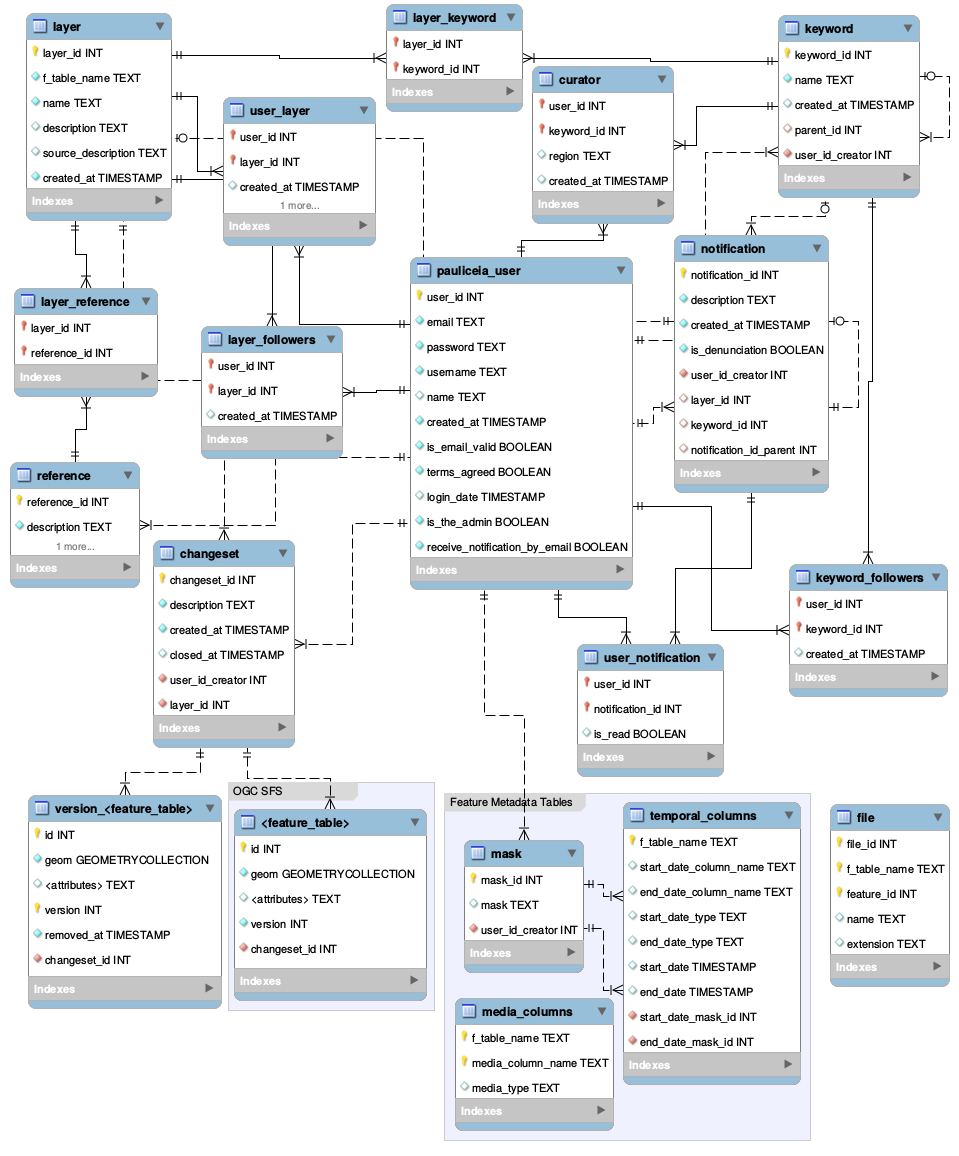
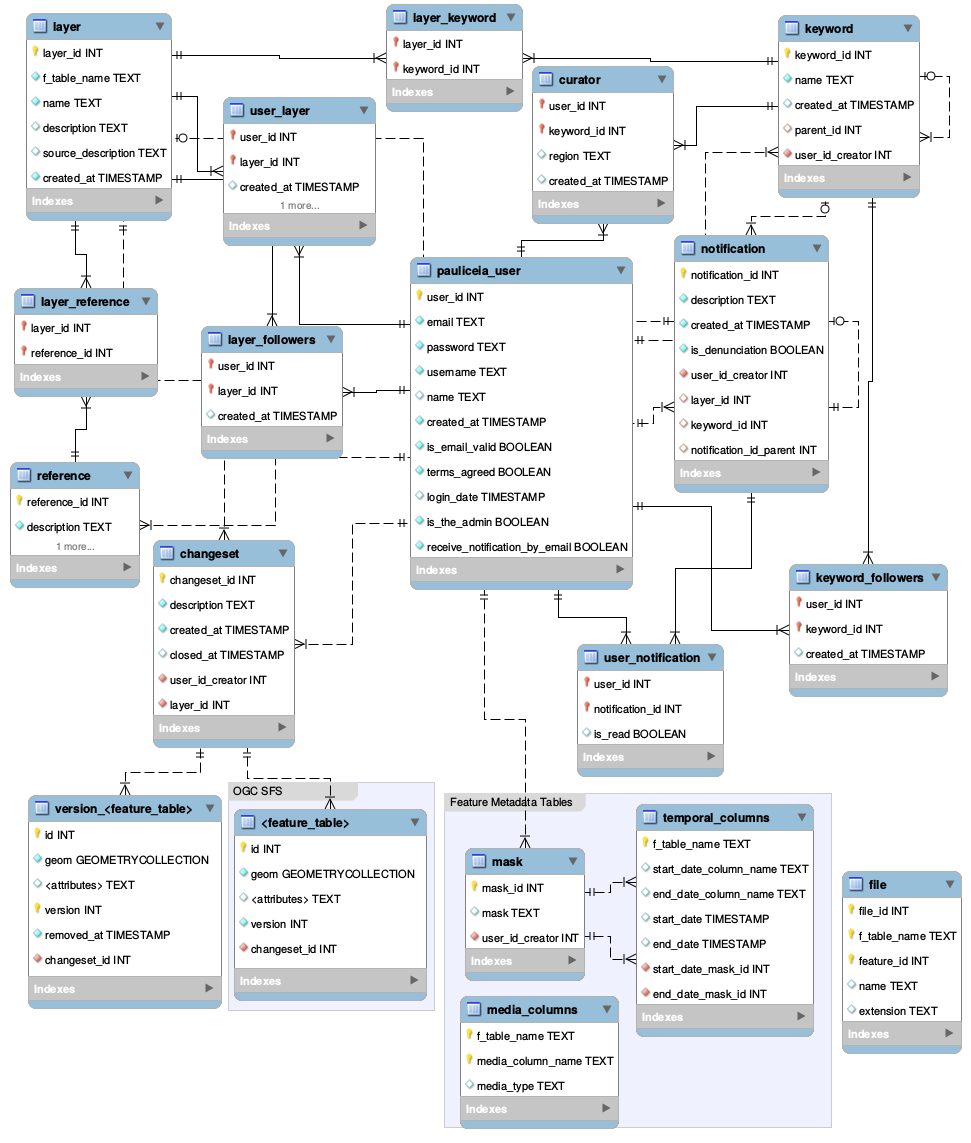
Removed the type from temporal columns

Changed region(s): [[0.0, 0.0, 0.9979, 1.0], [0.635, 0.3675, 0.6653, 0.3981]]

diff --git a/tests/test_api_temporal_columns.py b/tests/test_api_temporal_columns.py
@@ -24,51 +24,48 @@ class TestAPITemporalColumns(TestCase):
                     'type': 'TemporalColumns',
                     'properties': {
                         'end_date_column_name': 'end_date', 'start_date_mask_id': 1001,
-                        'end_date_type': 'timestamp', 'start_date': '1869-01-01', 'end_date_mask_id': 1001,
-                        'f_table_name': 'layer_1001', 'start_date_column_name': 'start_date',
-                        'start_date_type': 'timestamp', 'end_date': '1975-12-31'
-                    }
-                },
-                {
-                    'type': 'TemporalColumns',
-                    'properties': {
-                        'end_date_column_name': 'end_date', 'start_date_mask_id': 1001, 'end_date_type': 'text',
-                        'start_date': '1886-01-01', 'end_date_mask_id': 1001, 'f_table_name': 'layer_1002',
-                        'start_date_column_name': 'start_date', 'start_date_type': 'timestamp',
-                        'end_date': '1890-12-31'
+                        'start_date': '1869-01-01', 'end_date_mask_id': 1001, 'end_date': '1975-12-31',
+                        'f_table_name': 'layer_1001', 'start_date_column_name': 'start_date'
                     }
                 },
                 {
                     'type': 'TemporalColumns',
                     'properties': {
                         'end_date_column_name': 'end_date', 'start_date_mask_id': 1001,
-                        'end_date_type': 'timestamp', 'start_date': '1920-01-01', 'end_date_mask_id': 1001,
+                        'start_date': '1886-01-01', 'end_date_mask_id': 1001, 'f_table_name': 'layer_1002',
+                        'start_date_column_name': 'start_date', 'end_date': '1890-12-31'
+                    }
+                },
+                {
+                    'type': 'TemporalColumns',
+                    'properties': {
+                        'end_date_column_name': 'end_date', 'start_date_mask_id': 1001,
+                        'start_date': '1920-01-01', 'end_date_mask_id': 1001, 'end_date': '1930-12-31',
                         'f_table_name': 'layer_1003', 'start_date_column_name': 'start_date',
-                        'start_date_type': 'timestamp', 'end_date': '1930-12-31'
                     }
                 },
                 {
                     'type': 'TemporalColumns',
                     'properties': {
-                        'end_date_column_name': 'end_date', 'start_date_mask_id': 1002, 'end_date_type': 'text',
+                        'end_date_column_name': 'end_date', 'start_date_mask_id': 1002,
                         'start_date': '1920-01-01', 'end_date_mask_id': 1002, 'f_table_name': 'layer_1004',
-                        'start_date_column_name': 'start_date', 'start_date_type': 'text', 'end_date': '1920-12-31'
+                        'start_date_column_name': 'start_date', 'end_date': '1920-12-31'
                     }
                 },
                 {
                     'type': 'TemporalColumns',
                     'properties': {
-                        'end_date_column_name': 'end_date', 'start_date_mask_id': 1002, 'end_date_type': 'text',
+                        'end_date_column_name': 'end_date', 'start_date_mask_id': 1002,
                         'start_date': '1920-01-01', 'end_date_mask_id': 1002, 'f_table_name': 'layer_1005',
-                        'start_date_column_name': 'start_date', 'start_date_type': 'text', 'end_date': '1940-12-31'
+                        'start_date_column_name': 'start_date', 'end_date': '1940-12-31'
                     }
                 },
                 {
                     'type': 'TemporalColumns',
                     'properties': {
-                        'end_date_column_name': 'end_date', 'start_date_mask_id': 1003, 'end_date_type': 'int',
+                        'end_date_column_name': 'end_date', 'start_date_mask_id': 1003,
                         'start_date': '1900-01-01', 'end_date_mask_id': 1003, 'f_table_name': 'layer_1006',
-                        'start_date_column_name': 'start_date', 'start_date_type': 'int', 'end_date': '1930-12-31'
+                        'start_date_column_name': 'start_date', 'end_date': '1930-12-31'
                     }
                 }
             ]
@@ -84,9 +81,8 @@ class TestAPITemporalColumns(TestCase):
                     'type': 'TemporalColumns',
                     'properties': {
                         'end_date_column_name': 'end_date', 'start_date_mask_id': 1001,
-                        'end_date_type': 'timestamp', 'start_date': '1920-01-01', 'end_date_mask_id': 1001,
-                        'f_table_name': 'layer_1003', 'start_date_column_name': 'start_date',
-                        'start_date_type': 'timestamp', 'end_date': '1930-12-31'
+                        'start_date': '1920-01-01', 'end_date_mask_id': 1001, 'end_date': '1930-12-31',
+                        'f_table_name': 'layer_1003', 'start_date_column_name': 'start_date'
                     }
                 }
             ]
@@ -101,9 +97,9 @@ class TestAPITemporalColumns(TestCase):
                 {
                     'type': 'TemporalColumns',
                     'properties': {
-                        'end_date_column_name': 'end_date', 'start_date_mask_id': 1002, 'end_date_type': 'text',
+                        'end_date_column_name': 'end_date', 'start_date_mask_id': 1002,
                         'start_date': '1920-01-01', 'end_date_mask_id': 1002, 'f_table_name': 'layer_1004',
-                        'start_date_column_name': 'start_date', 'start_date_type': 'text', 'end_date': '1920-12-31'
+                        'start_date_column_name': 'start_date', 'end_date': '1920-12-31'
                     }
                 }
             ]
@@ -119,25 +115,24 @@ class TestAPITemporalColumns(TestCase):
                     'type': 'TemporalColumns',
                     'properties': {
                         'end_date_column_name': 'end_date', 'start_date_mask_id': 1001,
-                        'end_date_type': 'timestamp', 'start_date': '1920-01-01', 'end_date_mask_id': 1001,
+                        'start_date': '1920-01-01', 'end_date_mask_id': 1001, 'end_date': '1930-12-31',
                         'f_table_name': 'layer_1003', 'start_date_column_name': 'start_date',
-                        'start_date_type': 'timestamp', 'end_date': '1930-12-31'
                     }
                 },
                 {
                     'type': 'TemporalColumns',
                     'properties': {
-                        'end_date_column_name': 'end_date', 'start_date_mask_id': 1002, 'end_date_type': 'text',
+                        'end_date_column_name': 'end_date', 'start_date_mask_id': 1002,
                         'start_date': '1920-01-01', 'end_date_mask_id': 1002, 'f_table_name': 'layer_1004',
-                        'start_date_column_name': 'start_date', 'start_date_type': 'text', 'end_date': '1920-12-31'
+                        'start_date_column_name': 'start_date', 'end_date': '1920-12-31'
                     }
                 },
                 {
                     'type': 'TemporalColumns',
                     'properties': {
-                        'end_date_column_name': 'end_date', 'start_date_mask_id': 1002, 'end_date_type': 'text',
+                        'end_date_column_name': 'end_date', 'start_date_mask_id': 1002,
                         'start_date': '1920-01-01', 'end_date_mask_id': 1002, 'f_table_name': 'layer_1005',
-                        'start_date_column_name': 'start_date', 'start_date_type': 'text', 'end_date': '1940-12-31'
+                        'start_date_column_name': 'start_date', 'end_date': '1940-12-31'
                     }
                 }
             ]
@@ -152,18 +147,17 @@ class TestAPITemporalColumns(TestCase):
                 {
                     'type': 'TemporalColumns',
                     'properties': {
-                        'end_date_column_name': 'end_date', 'start_date_mask_id': 1001, 'end_date_type': 'text',
+                        'end_date_column_name': 'end_date', 'start_date_mask_id': 1001,
                         'start_date': '1886-01-01', 'end_date_mask_id': 1001, 'f_table_name': 'layer_1002',
-                        'start_date_column_name': 'start_date', 'start_date_type': 'timestamp',
-                        'end_date': '1890-12-31'
+                        'start_date_column_name': 'start_date', 'end_date': '1890-12-31'
                     }
                 },
                 {
                     'type': 'TemporalColumns',
                     'properties': {
-                        'end_date_column_name': 'end_date', 'start_date_mask_id': 1002, 'end_date_type': 'text',
+                        'end_date_column_name': 'end_date', 'start_date_mask_id': 1002,
                         'start_date': '1920-01-01', 'end_date_mask_id': 1002, 'f_table_name': 'layer_1004',
-                        'start_date_column_name': 'start_date', 'start_date_type': 'text', 'end_date': '1920-12-31'
+                        'start_date_column_name': 'start_date', 'end_date': '1920-12-31'
                     }
                 }
             ]
@@ -178,9 +172,9 @@ class TestAPITemporalColumns(TestCase):
                 {
                     'type': 'TemporalColumns',
                     'properties': {
-                        'end_date_column_name': 'end_date', 'start_date_mask_id': 1003, 'end_date_type': 'int',
+                        'end_date_column_name': 'end_date', 'start_date_mask_id': 1003,
                         'start_date': '1900-01-01', 'end_date_mask_id': 1003, 'f_table_name': 'layer_1006',
-                        'start_date_column_name': 'start_date', 'start_date_type': 'int', 'end_date': '1930-12-31'
+                        'start_date_column_name': 'start_date', 'end_date': '1930-12-31'
                     }
                 }
             ]
@@ -195,9 +189,9 @@ class TestAPITemporalColumns(TestCase):
                 {
                     'type': 'TemporalColumns',
                     'properties': {
-                        'end_date_column_name': 'end_date', 'start_date_mask_id': 1002, 'end_date_type': 'text',
+                        'end_date_column_name': 'end_date', 'start_date_mask_id': 1002,
                         'start_date': '1920-01-01', 'end_date_mask_id': 1002, 'f_table_name': 'layer_1004',
-                        'start_date_column_name': 'start_date', 'start_date_type': 'text', 'end_date': '1920-12-31'
+                        'start_date_column_name': 'start_date', 'end_date': '1920-12-31'
                     }
                 }
             ]
@@ -239,7 +233,6 @@ class TestAPITemporalColumns(TestCase):
         temporal_columns = {
             'properties': {'f_table_name': f_table_name, 'start_date': '1900-01-01', 'end_date': '1920-12-31',
                            'end_date_column_name': 'end_date', 'start_date_column_name': 'start_date',
-                           'start_date_type': 'timestamp', 'end_date_type': 'timestamp',
                            'start_date_mask_id': 1001, 'end_date_mask_id': 1001},
             'type': 'TemporalColumns'
         }
@@ -309,7 +302,6 @@ class TestAPITemporalColumns(TestCase):
         temporal_columns = {
             'properties': {'f_table_name': f_table_name, 'start_date': '1900-01-01', 'end_date': '1920-12-31',
                            'end_date_column_name': 'end_date', 'start_date_column_name': 'start_date',
-                           'start_date_type': 'timestamp', 'end_date_type': 'timestamp',
                            'start_date_mask_id': 1001, 'end_date_mask_id': 1001},
             'type': 'TemporalColumns'
         }
@@ -379,7 +371,6 @@ class TestAPITemporalColumnsErrors(TestCase):
         resource = {
             'properties': {'f_table_name': 'layer_1003', 'start_date': '1900-01-01', 'end_date': '1920-12-31',
                            'end_date_column_name': 'end_date', 'start_date_column_name': 'start_date',
-                           'start_date_type': 'timestamp', 'end_date_type': 'timestamp',
                            'start_date_mask_id': 1001, 'end_date_mask_id': 1001},
             'type': 'TemporalColumns'
         }
@@ -396,7 +387,6 @@ class TestAPITemporalColumnsErrors(TestCase):
         resource = {
             'properties': {'start_date': '1900-01-01', 'end_date': '1920-12-31',
                            'end_date_column_name': 'end_date', 'start_date_column_name': 'start_date',
-                           'start_date_type': 'timestamp', 'end_date_type': 'timestamp',
                            'start_date_mask_id': 1001, 'end_date_mask_id': 1001},
             'type': 'TemporalColumns'
         }
@@ -406,7 +396,6 @@ class TestAPITemporalColumnsErrors(TestCase):
         resource = {
             'properties': {'f_table_name': 'layer_1003', 'end_date': '1920-12-31',
                            'end_date_column_name': 'end_date', 'start_date_column_name': 'start_date',
-                           'start_date_type': 'timestamp', 'end_date_type': 'timestamp',
                            'start_date_mask_id': 1001, 'end_date_mask_id': 1001},
             'type': 'TemporalColumns'
         }
@@ -416,7 +405,6 @@ class TestAPITemporalColumnsErrors(TestCase):
         resource = {
             'properties': {'f_table_name': 'layer_1003', 'start_date': '1900-01-01',
                            'end_date_column_name': 'end_date', 'start_date_column_name': 'start_date',
-                           'start_date_type': 'timestamp', 'end_date_type': 'timestamp',
                            'start_date_mask_id': 1001, 'end_date_mask_id': 1001},
             'type': 'TemporalColumns'
         }
@@ -426,7 +414,6 @@ class TestAPITemporalColumnsErrors(TestCase):
         resource = {
             'properties': {'f_table_name': 'layer_1003', 'start_date': '1900-01-01', 'end_date': '1920-12-31',
                            'start_date_column_name': 'start_date',
-                           'start_date_type': 'timestamp', 'end_date_type': 'timestamp',
                            'start_date_mask_id': 1001, 'end_date_mask_id': 1001},
             'type': 'TemporalColumns'
         }
@@ -441,7 +428,6 @@ class TestAPITemporalColumnsErrors(TestCase):
         resource = {
             'properties': {'f_table_name': 'layer_1003', 'start_date': '1900-01-01', 'end_date': '1920-12-31',
                            'end_date_column_name': 'end_date',
-                           'start_date_type': 'timestamp', 'end_date_type': 'timestamp',
                            'start_date_mask_id': 1001, 'end_date_mask_id': 1001},
             'type': 'TemporalColumns'
         }
@@ -454,7 +440,6 @@ class TestAPITemporalColumnsErrors(TestCase):
         resource = {
             'properties': {'f_table_name': 'layer_1002', 'start_date': '1900-01-01', 'end_date': '1920-12-31',
                            'end_date_column_name': 'end_date', 'start_date_column_name': 'start_date',
-                           'start_date_type': 'timestamp', 'end_date_type': 'timestamp',
                            'start_date_mask_id': 1001, 'end_date_mask_id': 1001},
             'type': 'TemporalColumns'
         }
@@ -468,7 +453,6 @@ class TestAPITemporalColumnsErrors(TestCase):
         resource = {
             'properties': {'f_table_name': 'layer_1002', 'start_date': '1900-01-01', 'end_date': '1920-12-31',
                            'end_date_column_name': 'end_date', 'start_date_column_name': 'start_date',
-                           'start_date_type': 'timestamp', 'end_date_type': 'timestamp',
                            'start_date_mask_id': 1001, 'end_date_mask_id': 1001},
             'type': 'TemporalColumns'
         }
@@ -485,7 +469,6 @@ class TestAPITemporalColumnsErrors(TestCase):
         resource = {
             'properties': {'f_table_name': 'address', 'start_date': '1900-01-01', 'end_date': '1920-12-31',
                            'end_date_column_name': 'end_date', 'start_date_column_name': 'start_date',
-                           'start_date_type': 'timestamp', 'end_date_type': 'timestamp',
                            'start_date_mask_id': 1001, 'end_date_mask_id': 1001},
             'type': 'TemporalColumns'
         }
@@ -504,7 +487,6 @@ class TestAPITemporalColumnsErrors(TestCase):
         resource = {
             'properties': {'start_date': '1900-01-01', 'end_date': '1920-12-31',
                            'end_date_column_name': 'end_date', 'start_date_column_name': 'start_date',
-                           'start_date_type': 'timestamp', 'end_date_type': 'timestamp',
                            'start_date_mask_id': 1001, 'end_date_mask_id': 1001},
             'type': 'TemporalColumns'
         }
@@ -514,7 +496,6 @@ class TestAPITemporalColumnsErrors(TestCase):
         resource = {
             'properties': {'f_table_name': 'layer_1003', 'end_date': '1920-12-31',
                            'end_date_column_name': 'end_date', 'start_date_column_name': 'start_date',
-                           'start_date_type': 'timestamp', 'end_date_type': 'timestamp',
                            'start_date_mask_id': 1001, 'end_date_mask_id': 1001},
             'type': 'TemporalColumns'
         }
@@ -524,7 +505,6 @@ class TestAPITemporalColumnsErrors(TestCase):
         resource = {
             'properties': {'f_table_name': 'layer_1003', 'start_date': '1900-01-01',
                            'end_date_column_name': 'end_date', 'start_date_column_name': 'start_date',
-                           'start_date_type': 'timestamp', 'end_date_type': 'timestamp',
                            'start_date_mask_id': 1001, 'end_date_mask_id': 1001},
             'type': 'TemporalColumns'
         }
@@ -534,7 +514,6 @@ class TestAPITemporalColumnsErrors(TestCase):
         resource = {
             'properties': {'f_table_name': 'layer_1003', 'start_date': '1900-01-01', 'end_date': '1920-12-31',
                            'start_date_column_name': 'start_date',
-                           'start_date_type': 'timestamp', 'end_date_type': 'timestamp',
                            'start_date_mask_id': 1001, 'end_date_mask_id': 1001},
             'type': 'TemporalColumns'
         }
@@ -549,7 +528,6 @@ class TestAPITemporalColumnsErrors(TestCase):
         resource = {
             'properties': {'f_table_name': 'layer_1003', 'start_date': '1900-01-01', 'end_date': '1920-12-31',
                            'end_date_column_name': 'end_date',
-                           'start_date_type': 'timestamp', 'end_date_type': 'timestamp',
                            'start_date_mask_id': 1001, 'end_date_mask_id': 1001},
             'type': 'TemporalColumns'
         }
@@ -562,7 +540,6 @@ class TestAPITemporalColumnsErrors(TestCase):
         resource = {
             'properties': {'f_table_name': 'layer_1002', 'start_date': '1900-01-01', 'end_date': '1920-12-31',
                            'end_date_column_name': 'end_date', 'start_date_column_name': 'start_date',
-                           'start_date_type': 'timestamp', 'end_date_type': 'timestamp',
                            'start_date_mask_id': 1001, 'end_date_mask_id': 1001},
             'type': 'TemporalColumns'
         }
@@ -576,7 +553,6 @@ class TestAPITemporalColumnsErrors(TestCase):
         resource = {
             'properties': {'f_table_name': 'layer_1002', 'start_date': '1900-01-01', 'end_date': '1920-12-31',
                            'end_date_column_name': 'end_date', 'start_date_column_name': 'start_date',
-                           'start_date_type': 'timestamp', 'end_date_type': 'timestamp',
                            'start_date_mask_id': 1001, 'end_date_mask_id': 1001},
             'type': 'TemporalColumns'
         }
@@ -593,7 +569,6 @@ class TestAPITemporalColumnsErrors(TestCase):
         resource = {
             'properties': {'f_table_name': 'address', 'start_date': '1900-01-01', 'end_date': '1920-12-31',
                            'end_date_column_name': 'end_date', 'start_date_column_name': 'start_date',
-                           'start_date_type': 'timestamp', 'end_date_type': 'timestamp',
                            'start_date_mask_id': 1001, 'end_date_mask_id': 1001},
             'type': 'TemporalColumns'
         }

diff --git a/models/db_connection.py b/models/db_connection.py
@@ -829,7 +829,7 @@ class PGSQLConnection:
         #     raise HTTPError(400, "Invalid parameter.")
 
         subquery = get_subquery_temporal_columns_table(f_table_name=f_table_name, start_date=start_date, end_date=end_date,
-                                                   start_date_gte=start_date_gte, end_date_lte=end_date_lte)
+                                                       start_date_gte=start_date_gte, end_date_lte=end_date_lte)
 
         # CREATE THE QUERY AND EXECUTE IT
         query_text = """
@@ -840,9 +840,7 @@ class PGSQLConnection:
                     'properties', json_build_object(
                         'f_table_name',            f_table_name,
                         'start_date_column_name',  start_date_column_name,
-                        'end_date_column_name',    end_date_column_name,                        
-                        'start_date_type',         start_date_type,
-                        'end_date_type',           end_date_type,                        
+                        'end_date_column_name',    end_date_column_name,                      
                         'start_date',              to_char(start_date, 'YYYY-MM-DD'),
                         'end_date',                to_char(end_date, 'YYYY-MM-DD'),                        
                         'start_date_mask_id',      start_date_mask_id,
@@ -879,10 +877,10 @@ class PGSQLConnection:
 
         query_text = """
             INSERT INTO temporal_columns (f_table_name, start_date_column_name, end_date_column_name, start_date, end_date,
-                                          start_date_type, end_date_type, start_date_mask_id, end_date_mask_id)
-            VALUES ('{0}', '{1}', '{2}', '{3}', '{4}', '{5}', '{6}', {7}, {8});
+                                          start_date_mask_id, end_date_mask_id)
+            VALUES ('{0}', '{1}', '{2}', '{3}', '{4}', {5}, {6});
         """.format(p["f_table_name"], p["start_date_column_name"], p["end_date_column_name"], p["start_date"], p["end_date"],
-                   p["start_date_type"], p["end_date_type"], p["start_date_mask_id"], p["end_date_mask_id"])
+                   p["start_date_mask_id"], p["end_date_mask_id"])
 
         # do the query in database
         self.__PGSQL_CURSOR__.execute(query_text)
@@ -892,10 +890,10 @@ class PGSQLConnection:
 
         query_text = """
             UPDATE temporal_columns SET start_date_column_name='{1}', end_date_column_name='{2}', start_date='{3}', end_date='{4}',
-                                        start_date_type='{5}', end_date_type='{6}', start_date_mask_id={7}, end_date_mask_id={8}                                    
+                                        start_date_mask_id={5}, end_date_mask_id={6}                                    
             WHERE f_table_name = '{0}';
         """.format(p["f_table_name"], p["start_date_column_name"], p["end_date_column_name"], p["start_date"], p["end_date"],
-                   p["start_date_type"], p["end_date_type"], p["start_date_mask_id"], p["end_date_mask_id"])
+                   p["start_date_mask_id"], p["end_date_mask_id"])
 
         # do the query in database
         self.__PGSQL_CURSOR__.execute(query_text)

diff --git a/tests/run_tests.py b/tests/run_tests.py
@@ -25,7 +25,7 @@ if __name__ == '__main__':
 
     # Get all the files on current folder that has .py in the final
     tests = TestLoader().discover(ROOT_PATH, "*.py")
-    # tests = TestLoader().discover(ROOT_PATH, "test_api_curator.py")
+    # tests = TestLoader().discover(ROOT_PATH, "test_api_temporal_columns.py")
 
     # Run the tests - verbosity=2 increases the level of detail of output
     result = TextTestRunner(verbosity=2).run(tests)
